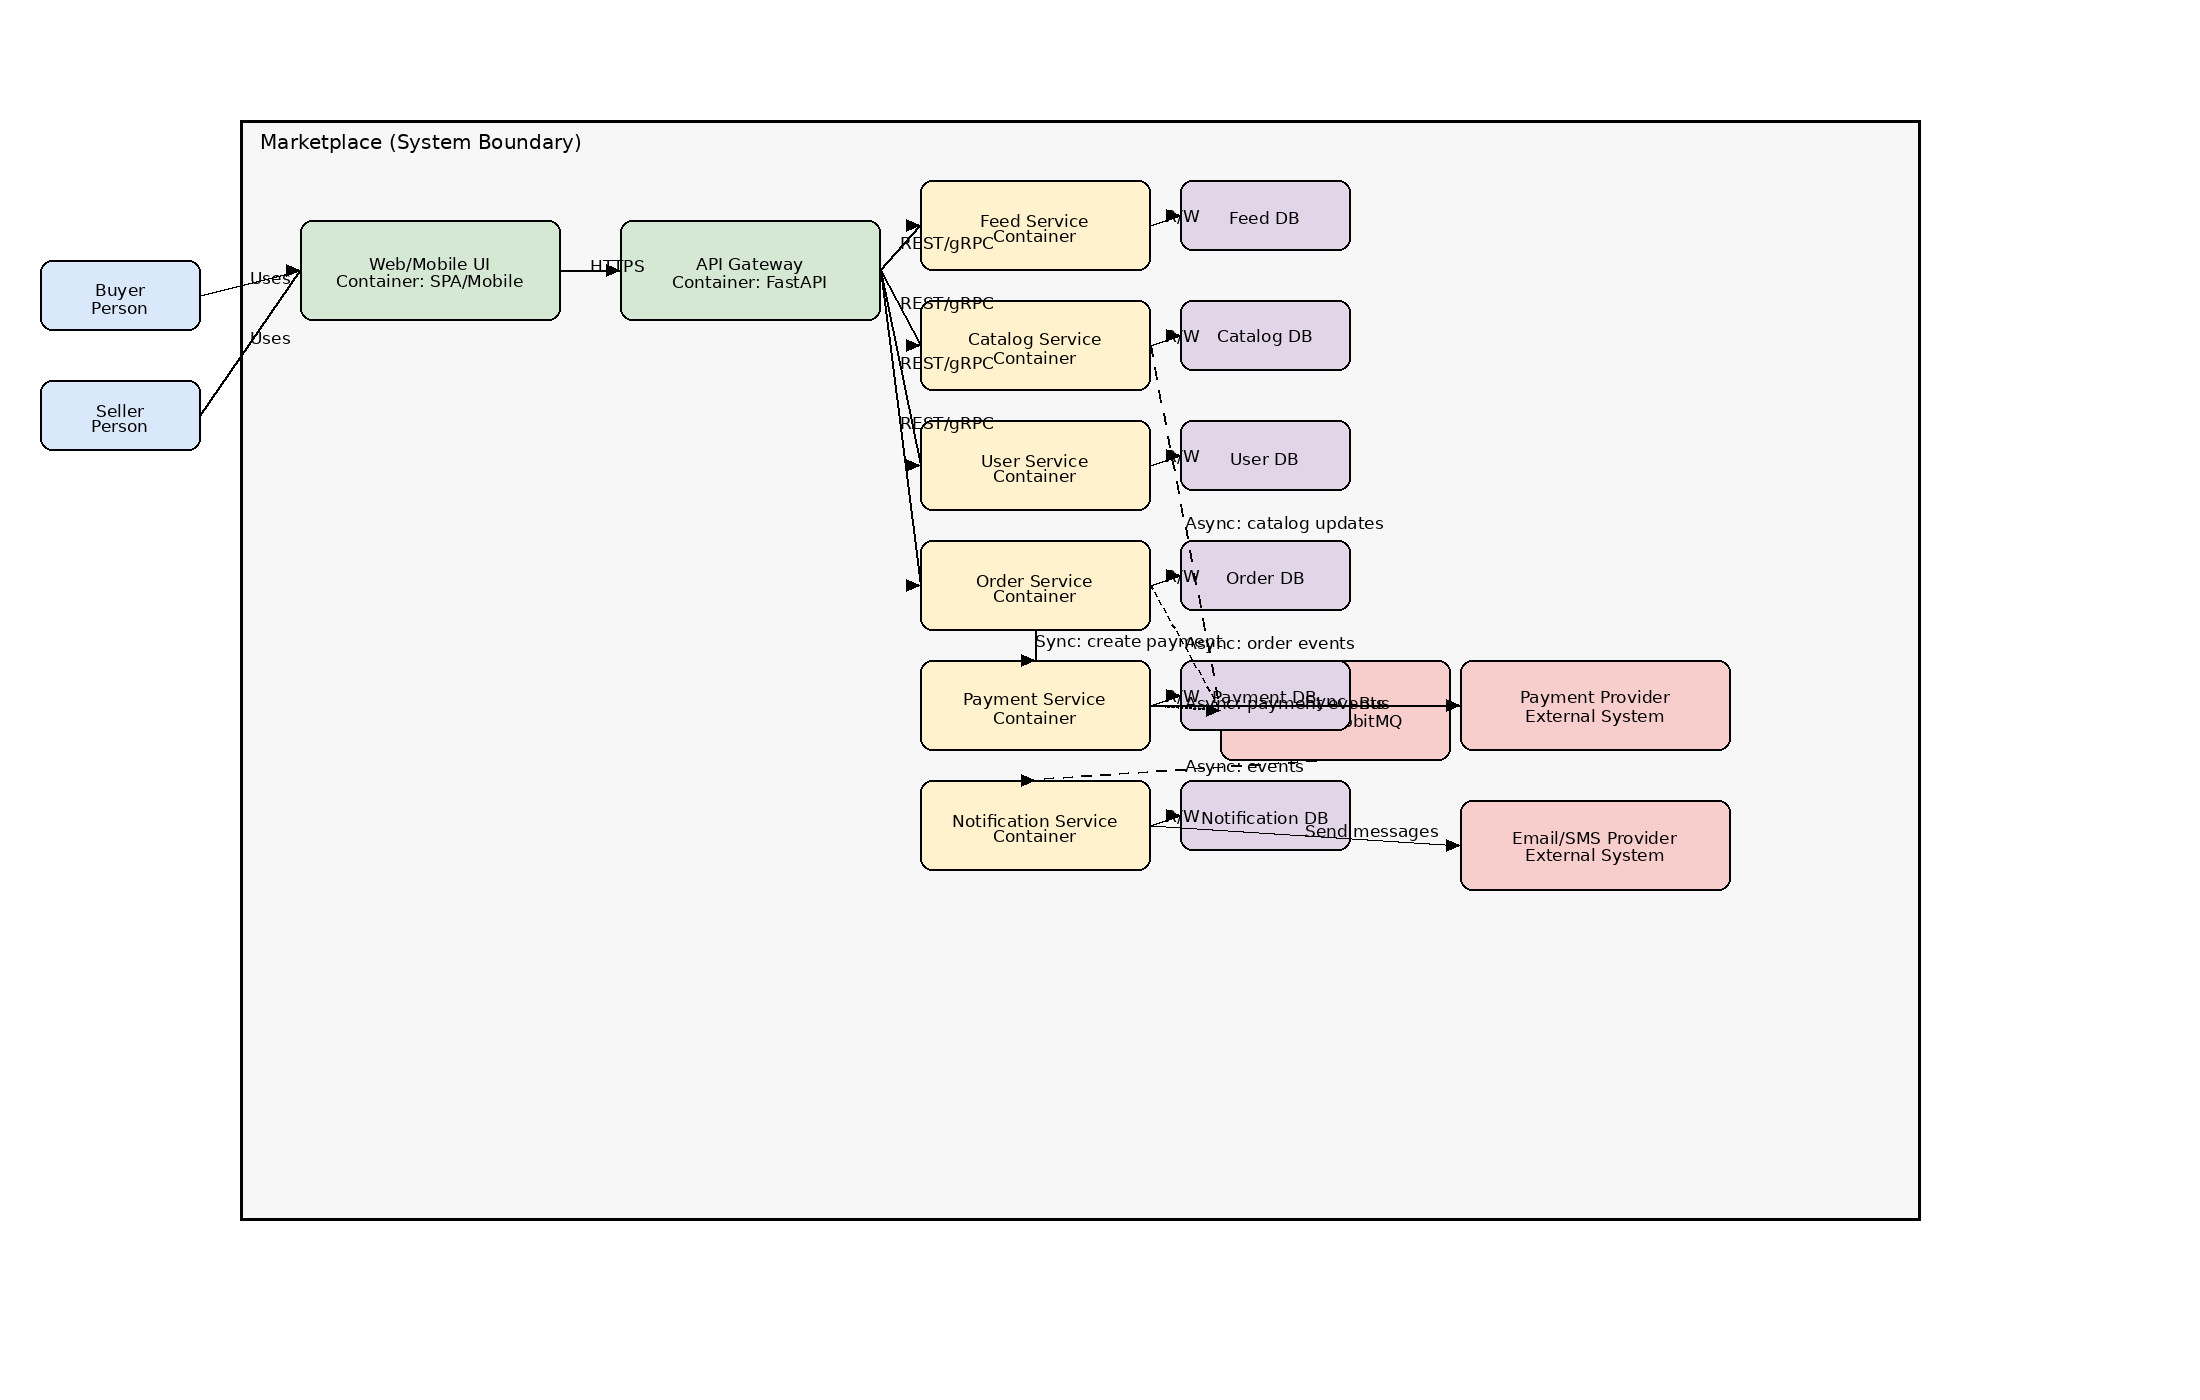
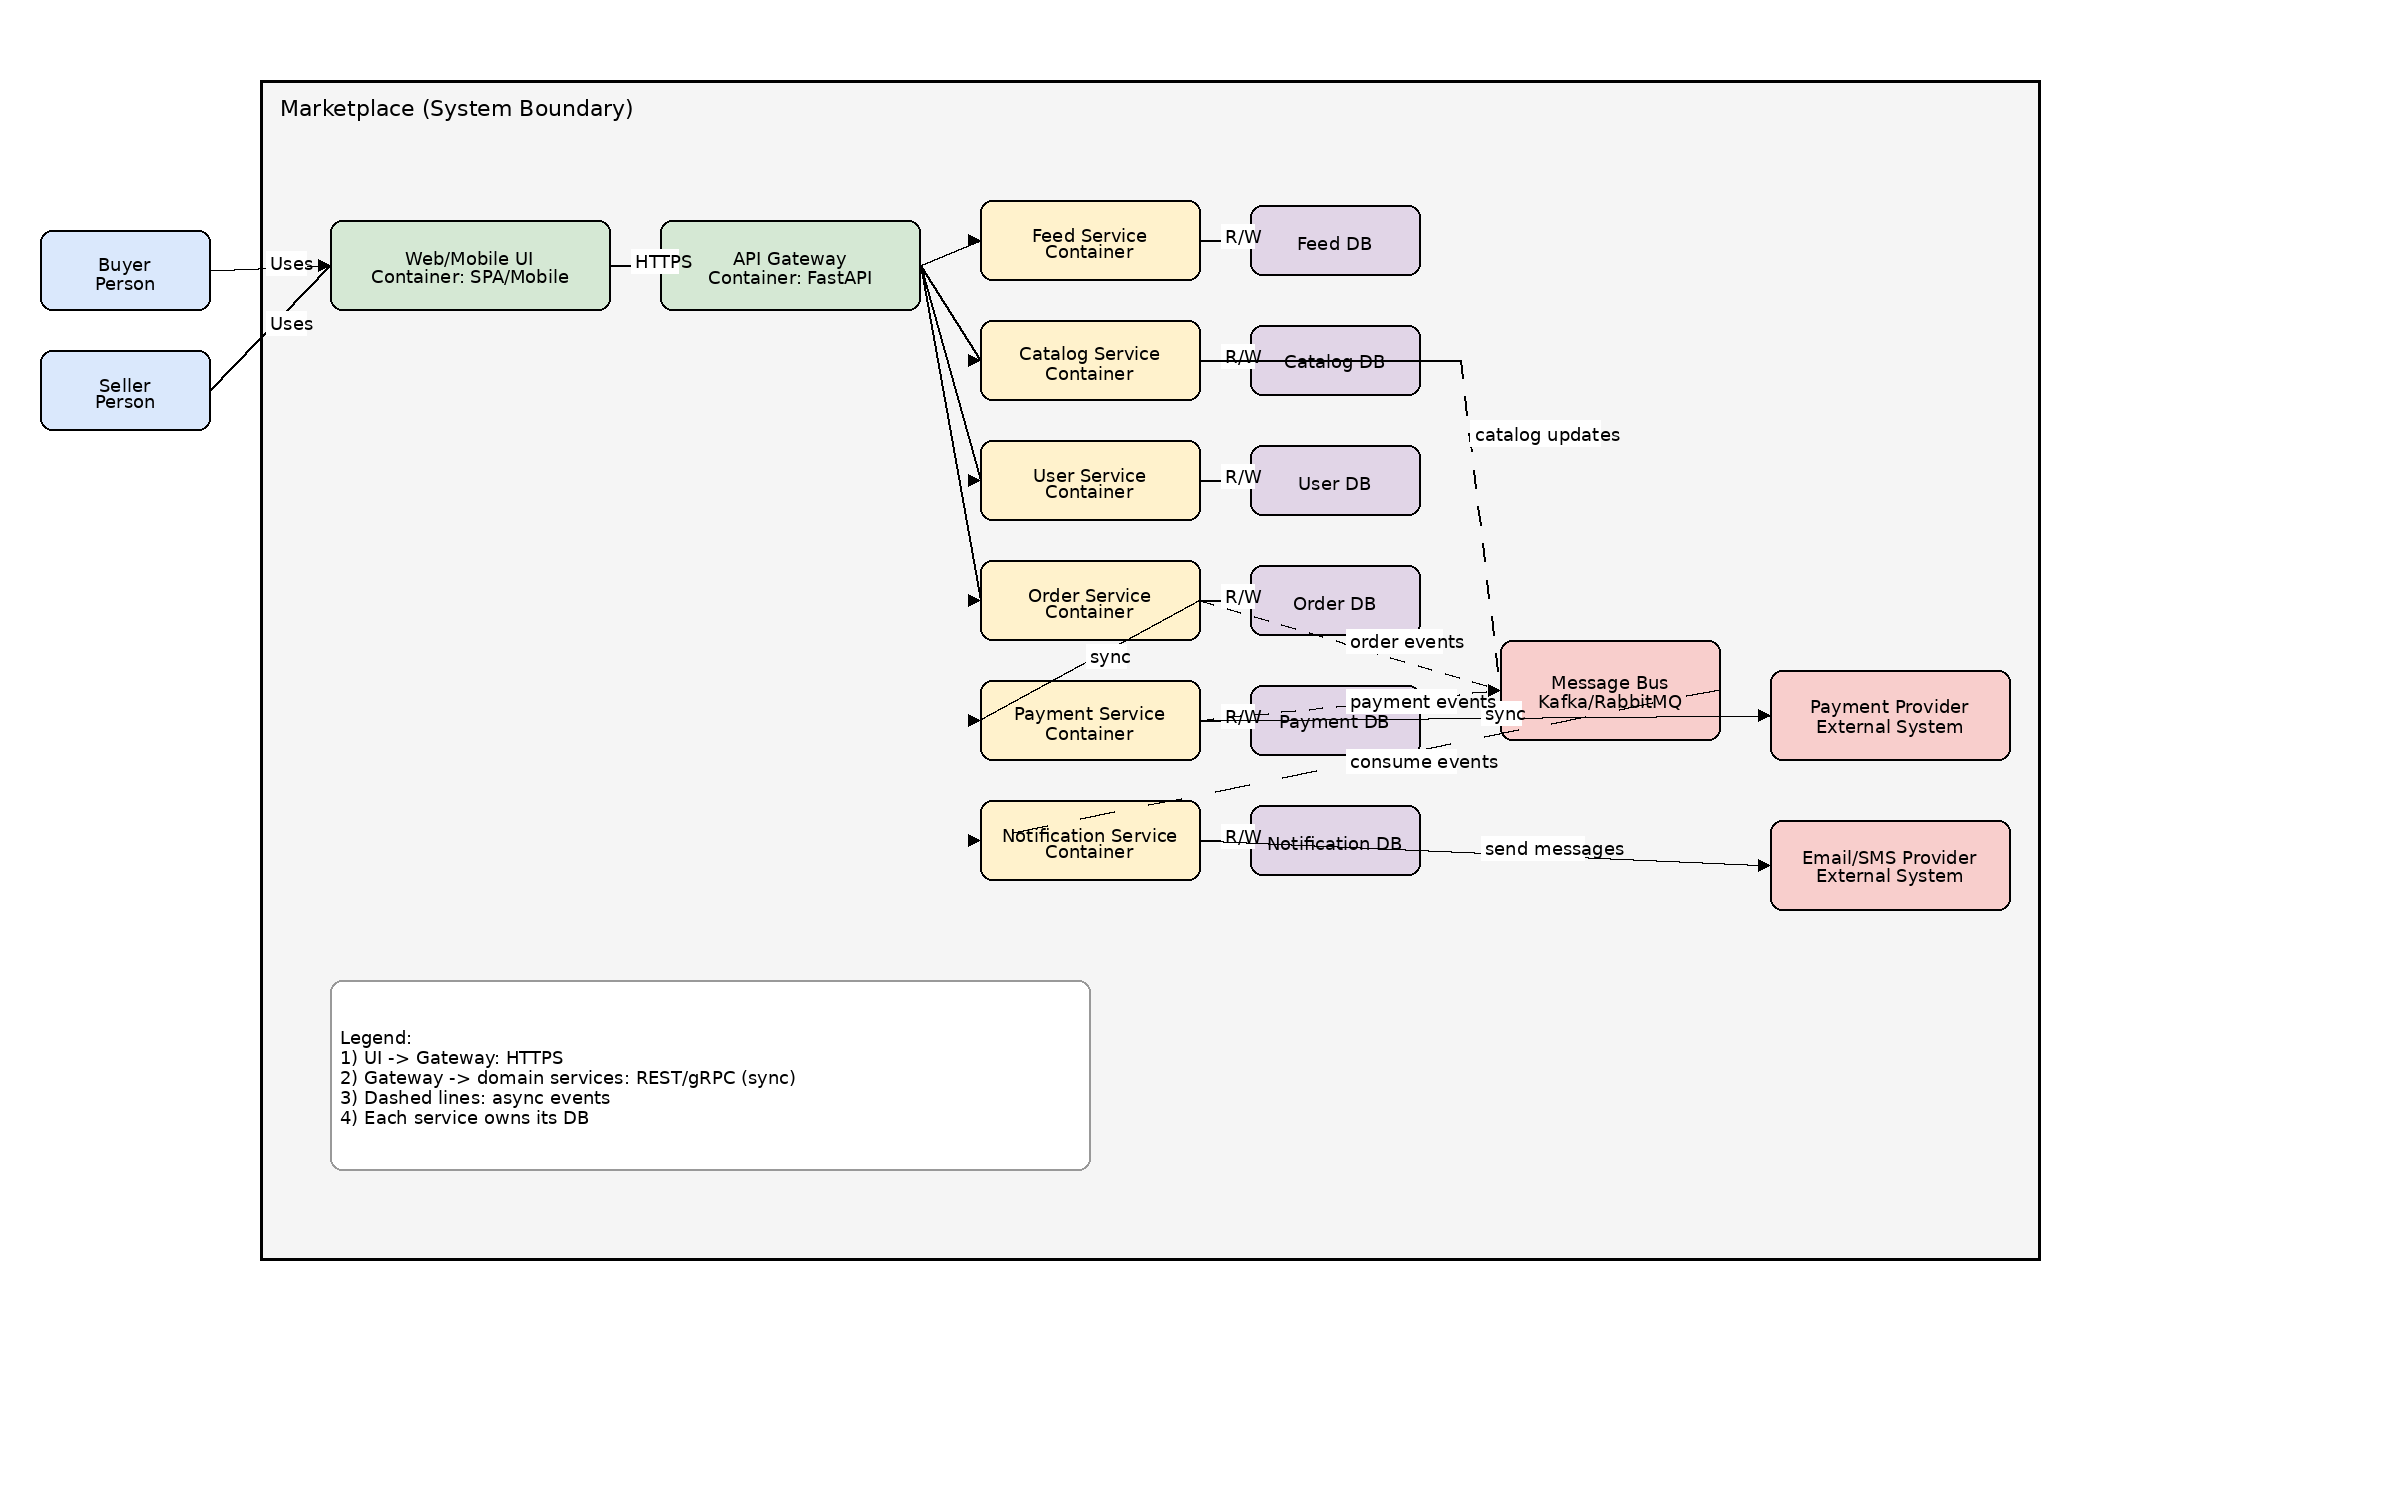
f

Changed region(s): [[0.0, 0.0614, 0.8655, 0.645], [0.1236, 0.6757, 0.34, 0.7679], [0.8345, 0.0614, 0.8655, 0.0921]]

diff --git a/README.md b/README.md
@@ -22,7 +22,9 @@ curl -i http://localhost:8000/health
 ```
 
 ## C4 Container диаграмма
-Файл: `c4-container.md`
+- Текстовая версия: `c4-container.md`
+- Редактируемый draw.io: `c4-container.drawio`
+- Экспорт PNG: `c4-container.png`
 
 ## Домены и ответственность
 - **Feed**: формирование персонализированной ленты (ранжирование, признаки, фичи).
